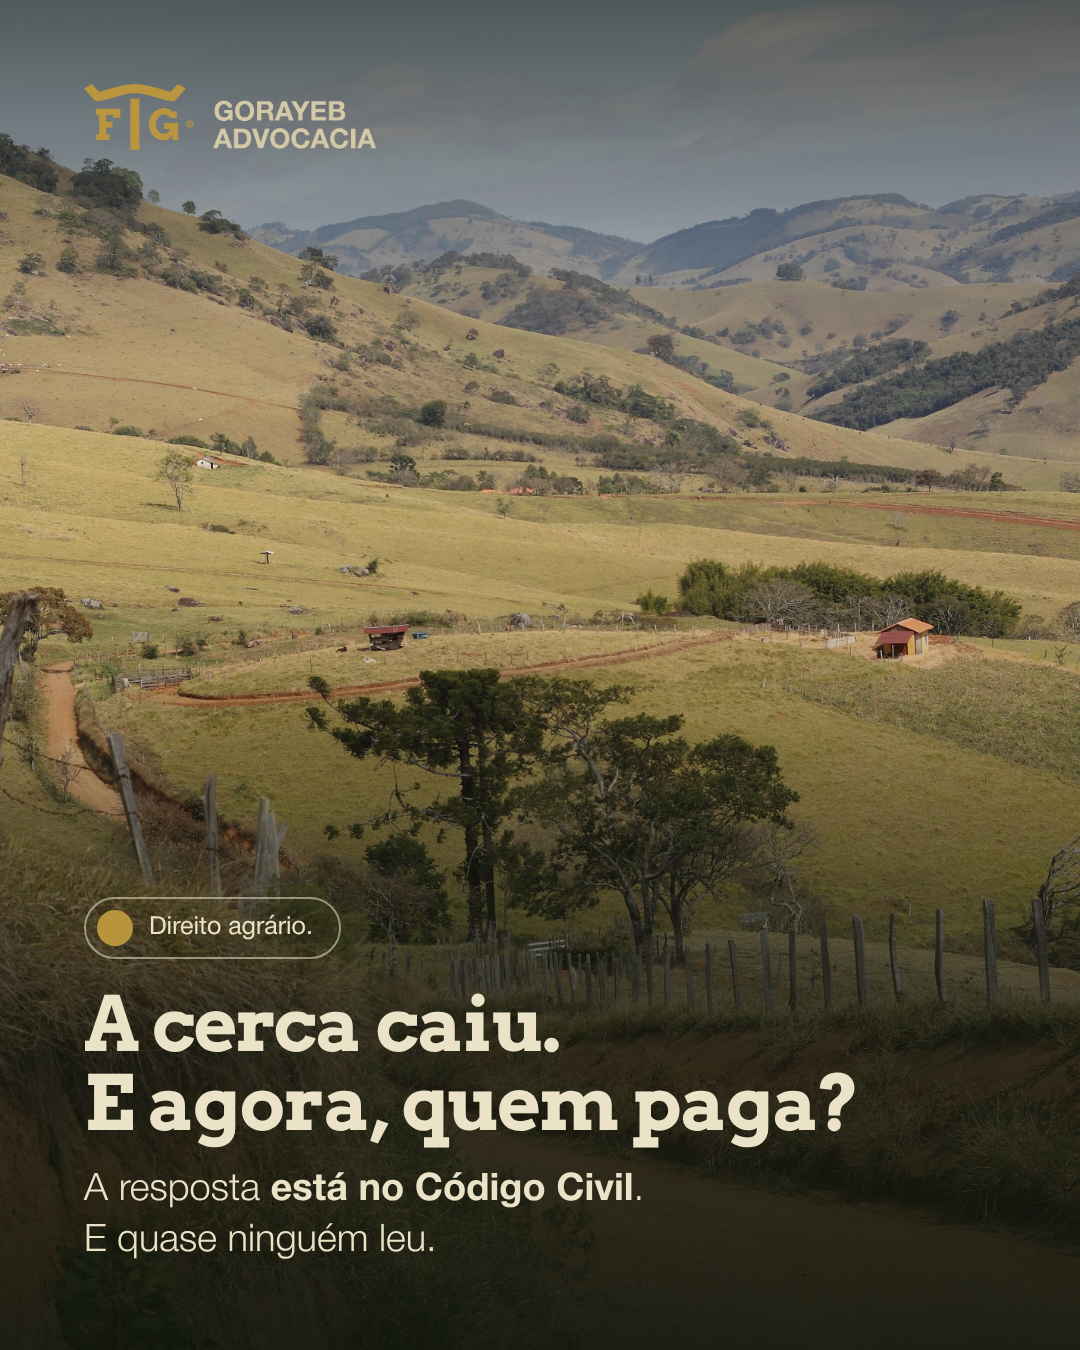
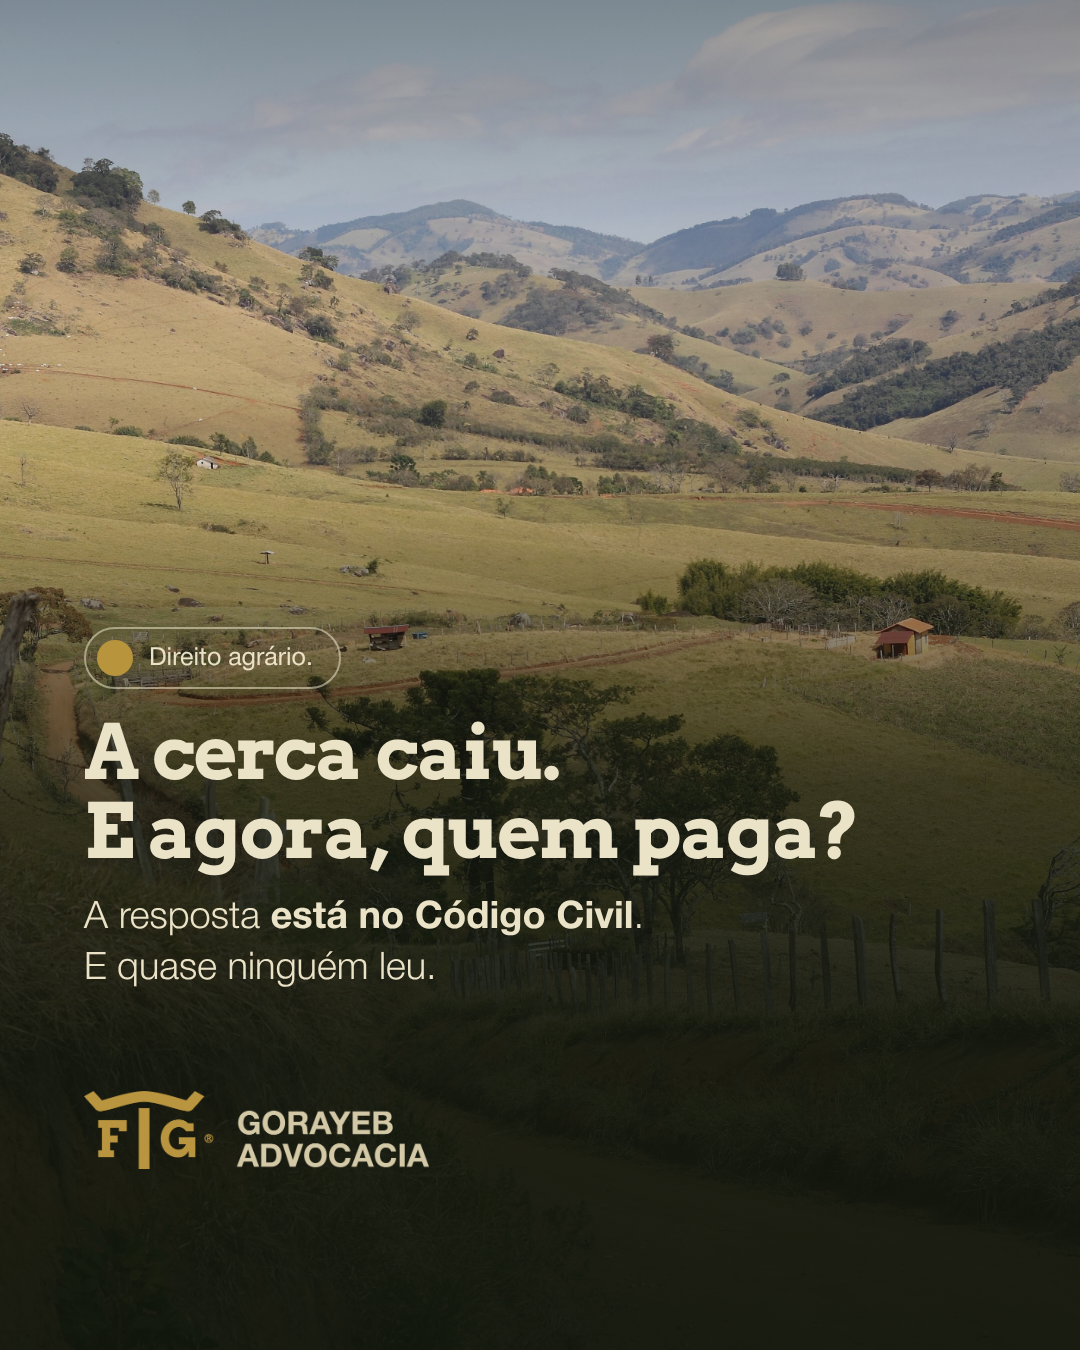
Remonta a capa num grid de quatro faixas
A foto respira nas duas faixas de cima, o título e a linha de apoio
ficam no meio da terceira e a logo passa para a quarta, dentro da
sombra, onde ganha destaque. Sombra refeita pra cobrir a metade de
baixo em vez de só o rodapé.

Claude-Session: https://claude.ai/code/session_01PNm9HeejNLCDTQ5J6fF2k9

diff --git a/docs/gorayeb/template/base.css b/docs/gorayeb/template/base.css
@@ -370,12 +370,23 @@
 /* ======================================================================
    CAPA DE FOTO — foto sangrando, marca no alto, categoria e título no pé.
    ====================================================================== */
-.capa-foto { padding: var(--margem); }
+ /* grid de quatro faixas horizontais: as duas de cima ficam com a foto,
+    o título mora no meio da terceira e a logo na quarta, na sombra. */
+.capa-foto {
+  padding: var(--margem);
+  display: grid;
+  grid-template-rows: 1fr 1fr 1fr 1fr;
+  align-items: center;
+}
+.capa-foto .faixa-vazia { grid-row: span 2; }
+.capa-foto .faixa-titulo { grid-row: 3; align-self: center; }
+.capa-foto .faixa-marca  { grid-row: 4; align-self: center; }
 .capa-foto .veu-capa {
   position: absolute; inset: 0; z-index: 0;
+  /* a sombra cobre as duas faixas de baixo, onde moram título e logo */
   background:
-    linear-gradient(180deg, rgba(16,22,13,.62) 0%, rgba(16,22,13,.18) 22%, rgba(16,22,13,0) 40%),
-    linear-gradient(0deg,   rgba(16,22,13,.92) 0%, rgba(16,22,13,.74) 24%, rgba(16,22,13,.26) 48%, rgba(16,22,13,0) 68%);
+    linear-gradient(180deg, rgba(16,22,13,.34) 0%, rgba(16,22,13,.10) 16%, rgba(16,22,13,0) 34%),
+    linear-gradient(0deg,   rgba(16,22,13,.95) 0%, rgba(16,22,13,.90) 22%, rgba(16,22,13,.74) 42%, rgba(16,22,13,.22) 62%, rgba(16,22,13,0) 76%);
 }
 .capa-foto .etiqueta {
   display: inline-flex; align-items: center; gap: 16px;
@@ -391,7 +402,7 @@
 .capa-foto .titulo-capa {
   font-family: "Arvo", Georgia, serif; font-weight: 700;
   font-size: 92px; line-height: 1.04; letter-spacing: -.02em;
-  margin-top: 26px;
+  margin-top: 24px;
 }
 .capa-foto .titulo-capa.menor { font-size: 76px; }
 .capa-foto .sub-capa {
